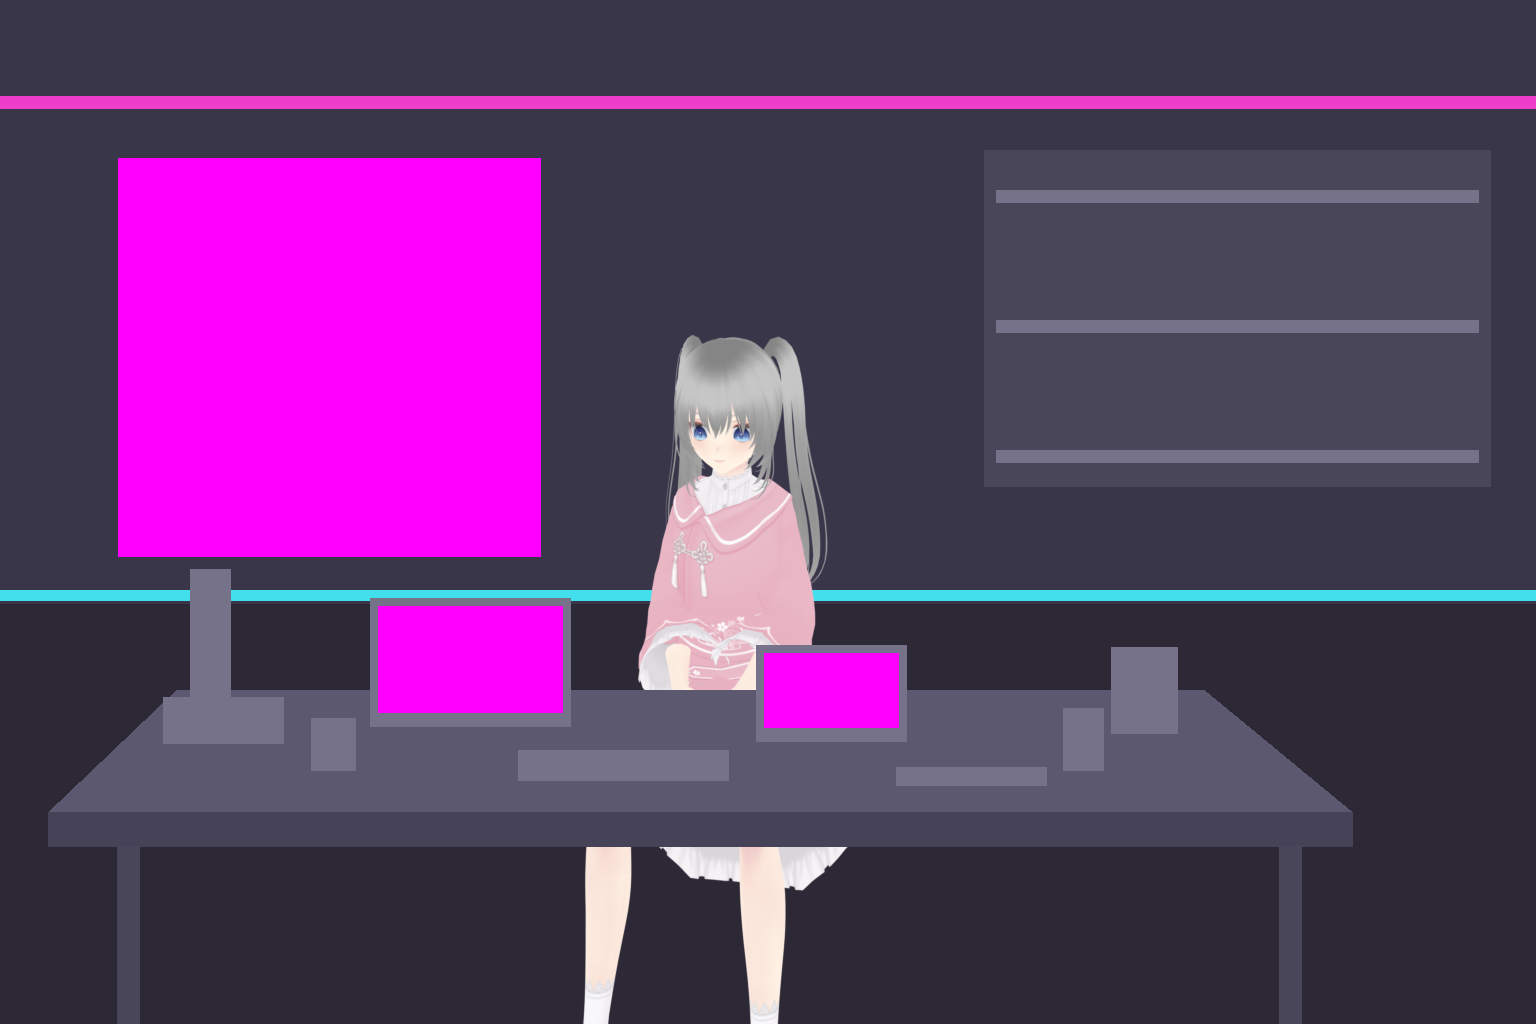
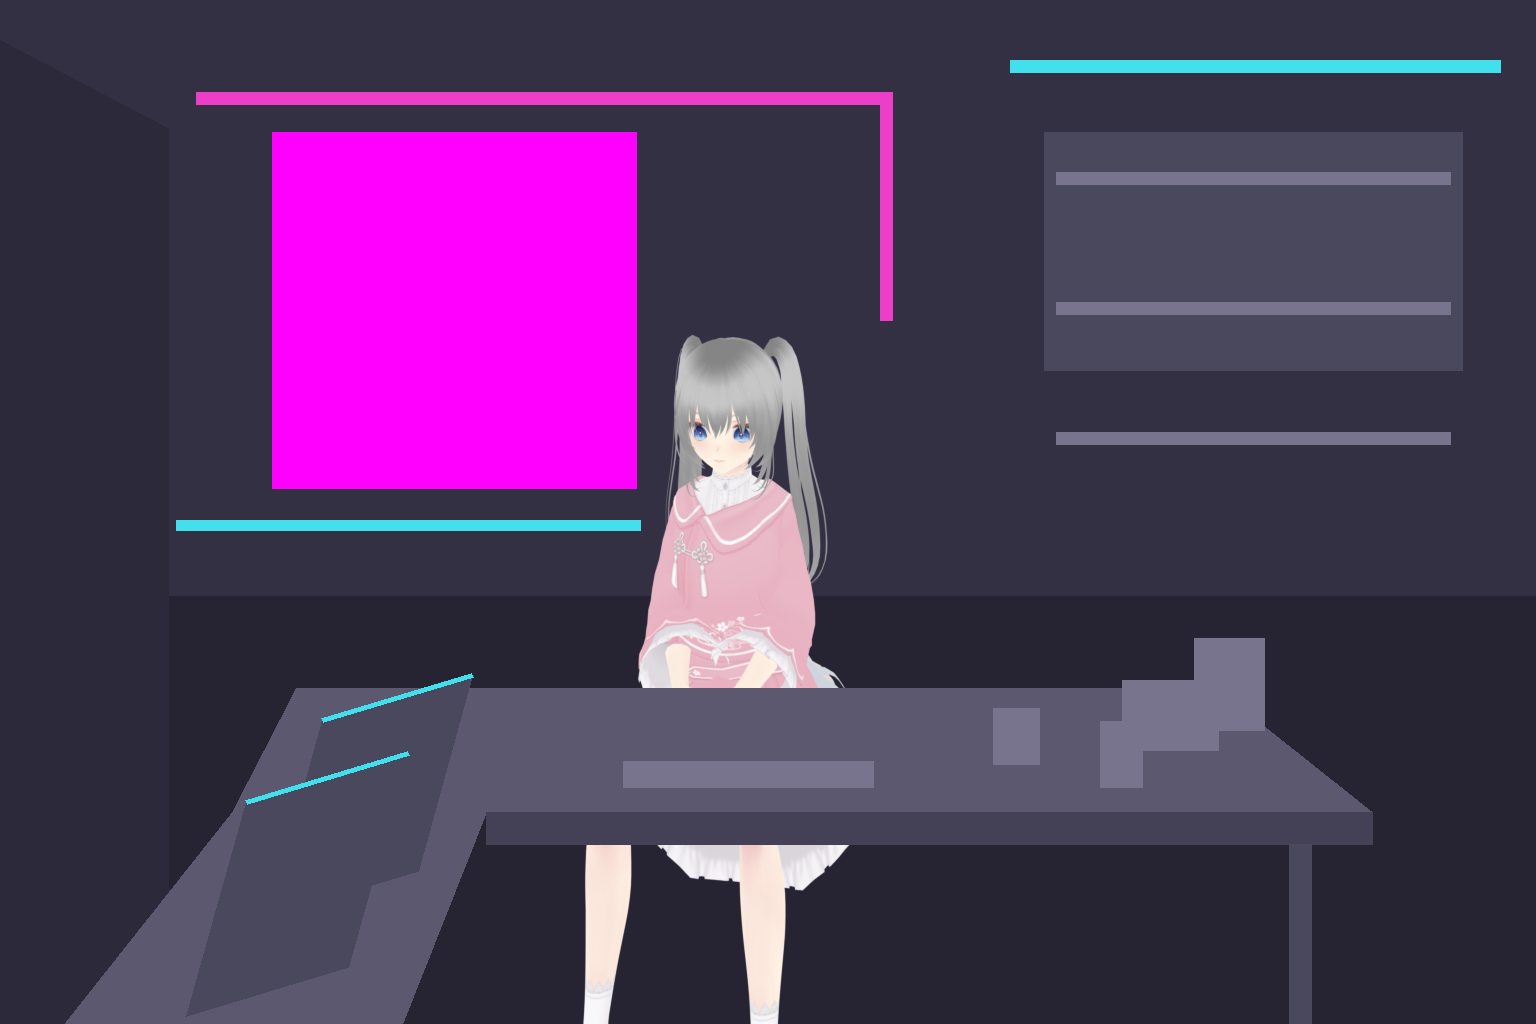
灰模改成 L 形桌，她坐在内转角
上一版四个毛病同一个根因：灰模把房间画成了一堵平墙。窗户、人、货架一字
排开没有纵深，所以看着分割；L 在转 2D 时被我丢了；屏幕画成正面矩形，
出图就成了"电脑对着观众"。

改动：
- L 形台面，回折臂从左端朝镜头伸出，一进画面就有纵深
- 显示器立在回折臂上、侧对着她，镜头看到的是机背
- 桌上不再留品红。屏幕既然朝着她，内容本来就看不见，
  画面里唯一的品红只剩窗户（昼夜天气要靠它）
- 霓虹不再横贯画面。满宽的横条把画面切成三层，正是"分割感"的来源
- 左侧补一道墙角

diff --git a/Scripts/blocking.py b/Scripts/blocking.py
@@ -21,76 +21,90 @@ from PIL import Image, ImageDraw
 W, H = 1536, 1024
 
 # 构图参数。改构图只动这里。
-HORIZON = 604            # 墙脚线
-DESK_FAR_Y = 690         # 桌面远边（靠她那侧）
-DESK_NEAR_Y = 812        # 桌面近边（靠镜头）
-DESK_FAR = (176, 1204)   # 远边左右端
-DESK_NEAR = (48, 1352)   # 近边左右端
-DESK_LIP = 34            # 桌沿厚度
-LEG_X = (128, 1290)      # 两条前腿
+#
+# 桌子是 L 形，她坐在**内转角**：主台面横在她身前，回折臂从左端朝镜头伸过来。
+# 回折臂是这版构图的关键——它一进画面就带来纵深，否则窗户/人/货架一字排开，
+# 整个房间会像一堵贴了东西的平墙。
+HORIZON = 596
+MAIN_FAR_Y, MAIN_NEAR_Y = 688, 812          # 主台面的远近边
+MAIN_FAR = (296, 1216)
+MAIN_NEAR = (232, 1372)
+RETURN_BOTTOM = (64, 402)                    # 回折臂在画面底边的左右端
+RETURN_SPLIT = 486                           # 主台面近边上，回折臂从这里岔出去
+DESK_LIP = 32
+LEG_X = (1300,)                              # 只画右前腿；左侧被回折臂占了
 LEG_W = 22
-WINDOW = (118, 158, 540, 556)     # 窗洞 x0,y0,x1,y1。右边界要避开角色（她占 x≈583 起）
-SHELF = (984, 150, 1490, 486)
+WINDOW = (272, 132, 636, 488)                # 窗洞。避开她（x≈583 起）也避开回折臂
+SHELF = (1044, 132, 1462, 370)
 
-C_WALL = (58, 54, 74)
-C_FLOOR = (44, 40, 54)
+C_WALL = (52, 48, 68)
+C_FLOOR = (38, 35, 50)
 C_DESK = (92, 88, 112)
-C_LIP = (70, 66, 88)
-C_METAL = (72, 70, 88)
-C_PROP = (118, 114, 138)
+C_LIP = (68, 64, 86)
+C_METAL = (74, 72, 92)
+C_PROP = (120, 116, 142)
 C_SCREEN = (255, 0, 255)
 C_NEON_A = (236, 62, 200)
 C_NEON_B = (66, 224, 236)
 
-# 桌上的东西。都是方块——重绘会把方块变成显示器、书、杯子。
-# 位置按「桌面上的相对坐标」给：u 横向 0…1，v 纵深 0（远）…1（近）。
-PROPS = [
-    ("monitor",  0.30, 0.30, 200, 128, True),
-    ("laptop",   0.62, 0.42, 150, 96, True),
-    ("keyboard", 0.44, 0.74, 210, 30, False),
-    ("mug",      0.20, 0.66, 44, 52, False),
-    ("books",    0.09, 0.44, 120, 46, False),
-    ("papers",   0.72, 0.78, 150, 18, False),
-    ("phone",    0.82, 0.66, 40, 62, False),
-    ("plant",    0.90, 0.36, 66, 86, False),
-    ("lamp",     0.06, 0.24, 40, 150, False),
+# 主台面上的东西：她伸手够得到的。u 横向 0…1，v 纵深 0（远）…1（近）。
+MAIN_PROPS = [
+    ("keyboard", 0.46, 0.80, 250, 26),
+    ("mug",      0.72, 0.62, 46, 56),
+    ("phone",    0.80, 0.80, 42, 66),
+    ("tablet",   0.88, 0.50, 96, 70),
+    ("plant",    0.96, 0.34, 70, 92),
+]
+# 回折臂上的显示器。**侧对着她**，所以镜头看到的是机背——
+# 画成正面矩形就成了"电脑对着观众"，很怪；屏幕内容本来也就看不见，
+# 因此这里不留品红，画面里唯一的品红只有窗户。
+SCREENS = [
+    dict(foot=(268, 916), w=150, h=196, lean=54),
+    dict(foot=(186, 1016), w=162, h=214, lean=60),
 ]
 
 
 def desk_point(u, v):
-    """桌面上的相对坐标 →屏幕坐标。梯形四角之间做双线性插值。"""
-    y = DESK_FAR_Y + (DESK_NEAR_Y - DESK_FAR_Y) * v
-    left = DESK_FAR[0] + (DESK_NEAR[0] - DESK_FAR[0]) * v
-    right = DESK_FAR[1] + (DESK_NEAR[1] - DESK_FAR[1]) * v
+    """主台面上的相对坐标 → 屏幕坐标。梯形四角之间做双线性插值。"""
+    y = MAIN_FAR_Y + (MAIN_NEAR_Y - MAIN_FAR_Y) * v
+    left = MAIN_FAR[0] + (MAIN_NEAR[0] - MAIN_FAR[0]) * v
+    right = MAIN_FAR[1] + (MAIN_NEAR[1] - MAIN_FAR[1]) * v
     return left + (right - left) * u, y
 
 
-def desk_polygon():
-    return [(DESK_FAR[0], DESK_FAR_Y), (DESK_FAR[1], DESK_FAR_Y),
-            (DESK_NEAR[1], DESK_NEAR_Y + DESK_LIP), (DESK_NEAR[0], DESK_NEAR_Y + DESK_LIP)]
+def desk_surface():
+    """L 形台面的多边形。顺时针：主台面远边 → 右端 → 近边 → 岔出回折臂 → 回到左端。"""
+    return [(MAIN_FAR[0], MAIN_FAR_Y), (MAIN_FAR[1], MAIN_FAR_Y),
+            (MAIN_NEAR[1], MAIN_NEAR_Y), (RETURN_SPLIT, MAIN_NEAR_Y),
+            (RETURN_BOTTOM[1], H), (RETURN_BOTTOM[0], H),
+            (MAIN_NEAR[0], MAIN_NEAR_Y)]
 
 
-def draw_desk(d, fill_top, fill_lip, fill_leg):
-    # 桌板
-    d.polygon([(DESK_FAR[0], DESK_FAR_Y), (DESK_FAR[1], DESK_FAR_Y),
-               (DESK_NEAR[1], DESK_NEAR_Y), (DESK_NEAR[0], DESK_NEAR_Y)], fill=fill_top)
-    # 桌沿厚度
-    d.polygon([(DESK_NEAR[0], DESK_NEAR_Y), (DESK_NEAR[1], DESK_NEAR_Y),
-               (DESK_NEAR[1], DESK_NEAR_Y + DESK_LIP), (DESK_NEAR[0], DESK_NEAR_Y + DESK_LIP)],
-              fill=fill_lip)
+def draw_desk(d, top, lip, leg):
+    d.polygon(desk_surface(), fill=top)
+    # 桌沿厚度只画主台面那一段——回折臂是朝镜头伸的，看不到它的沿
+    d.polygon([(RETURN_SPLIT, MAIN_NEAR_Y), (MAIN_NEAR[1], MAIN_NEAR_Y),
+               (MAIN_NEAR[1], MAIN_NEAR_Y + DESK_LIP), (RETURN_SPLIT, MAIN_NEAR_Y + DESK_LIP)],
+              fill=lip)
     # 前腿。桌下必须留空——能看见她的腿是这版构图的全部意义。
     for x in LEG_X:
-        d.rectangle([x - LEG_W // 2, DESK_NEAR_Y + DESK_LIP, x + LEG_W // 2, H], fill=fill_leg)
+        d.rectangle([x - LEG_W // 2, MAIN_NEAR_Y + DESK_LIP, x + LEG_W // 2, H], fill=leg)
 
 
 def draw_props(d, solid=None):
-    for name, u, v, w, h, screen in PROPS:
+    for _, u, v, w, h in MAIN_PROPS:
         cx, base = desk_point(u, v)
-        box = [cx - w / 2, base - h, cx + w / 2, base]
-        d.rectangle(box, fill=solid or C_PROP)
-        if screen and solid is None:
-            # 屏幕填品红，运行时塞程序化内容
-            d.rectangle([box[0] + 8, box[1] + 8, box[2] - 8, box[3] - 14], fill=C_SCREEN)
+        d.rectangle([cx - w / 2, base - h, cx + w / 2, base], fill=solid or C_PROP)
+    for s in SCREENS:
+        x, y = s["foot"]
+        w, h, lean = s["w"], s["h"], s["lean"]
+        # 底边贴在回折臂上（沿着台面往右后方斜），面板竖起来并向右让开一点：
+        # 读起来就是一台立着的显示器，屏幕朝她、机背朝我们
+        quad = [(x, y), (x + w, y - w * 0.30),
+                (x + w + lean, y - w * 0.30 - h), (x + lean, y - h)]
+        d.polygon(quad, fill=solid or C_METAL)
+        if solid is None:
+            d.line([quad[3], quad[2]], fill=C_NEON_B, width=5)   # 机背上沿透出的辉光
 
 
 def build(character_path, out_dir):
@@ -104,9 +118,14 @@ def build(character_path, out_dir):
     for i in range(3):
         y = SHELF[1] + 40 + i * 130
         d.rectangle([SHELF[0] + 12, y, SHELF[2] - 12, y + 12], fill=C_PROP)
-    # 霓虹灯带：给重绘一个明确的光源位置暗示
-    d.rectangle([0, 96, W, 108], fill=C_NEON_A)
-    d.rectangle([0, HORIZON - 14, W, HORIZON - 4], fill=C_NEON_B)
+    # 左侧墙的转角：给平墙加一道纵深暗示，否则整间房像一块贴了东西的板
+    d.polygon([(0, 40), (168, 128), (168, H), (0, H)], fill=(44, 41, 58))
+    # 霓虹：**不要横贯整幅画面**。满宽的横条会把画面切成上中下三层，
+    # 这正是"很分割"的来源。改成几段错落的、带一道竖向重音。
+    d.rectangle([196, 92, 880, 104], fill=C_NEON_A)
+    d.rectangle([1010, 60, 1500, 72], fill=C_NEON_B)
+    d.rectangle([880, 92, 892, 320], fill=C_NEON_A)
+    d.rectangle([176, 520, 640, 530], fill=C_NEON_B)
 
     layout = room.copy()
     if character_path and os.path.exists(character_path):
@@ -131,11 +150,7 @@ def build(character_path, out_dir):
         "room_window": {"x": round(WINDOW[0] / W, 5), "y": round(WINDOW[1] / H, 5),
                         "width": round((WINDOW[2] - WINDOW[0]) / W, 5),
                         "height": round((WINDOW[3] - WINDOW[1]) / H, 5)},
-        "screens": [
-            {"x": round((desk_point(u, v)[0] - w / 2 + 8) / W, 5),
-             "y": round((desk_point(u, v)[1] - h + 8) / H, 5),
-             "width": round((w - 16) / W, 5), "height": round((h - 22) / H, 5)}
-            for name, u, v, w, h, screen in PROPS if screen],
+        "deskMask": "mask_desk.png",
         "source": "blocking",
     }
     json.dump(manifest, open(os.path.join(out_dir, "layout.json"), "w"), indent=2)
